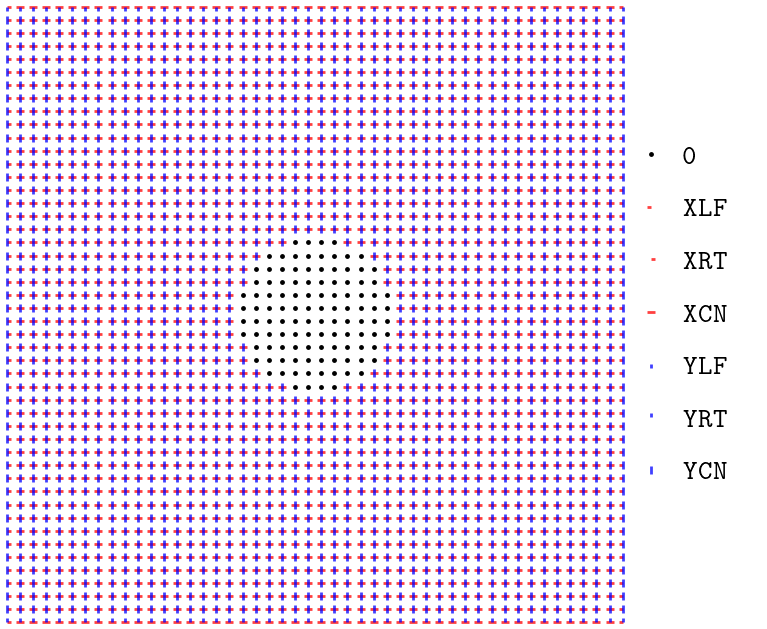
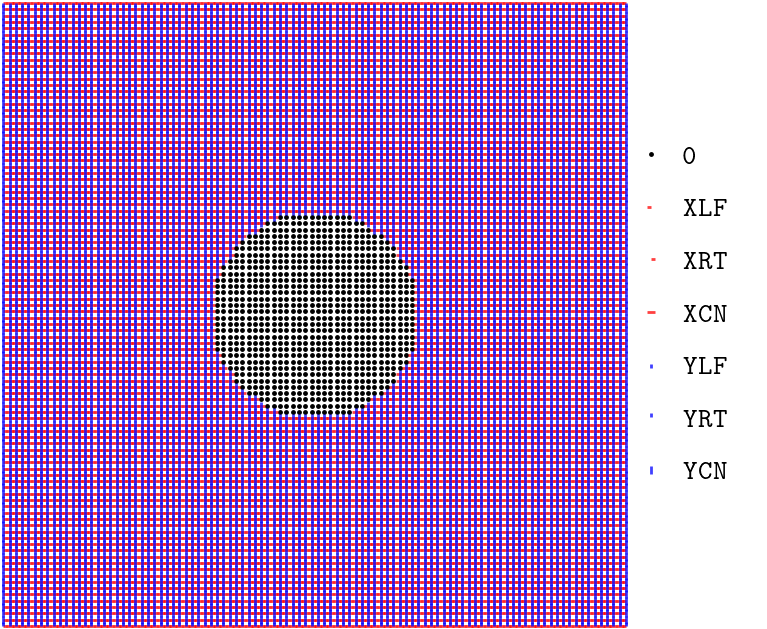
modified:   docs/imgs/poisson_eq_example.png 	modified:   docs/imgs/umap_example.png 	modified:   examples/test_poisson_eq.py 	modified:   src/_default/run_poisson_eq.cxx 	modified:   src/_ltplib/def_poisson_eq.cxx 	modified:   src/common/poisson_eq.hxx

diff --git a/examples/test_poisson_eq.py b/examples/test_poisson_eq.py
@@ -99,9 +99,9 @@ def main(args):
 	ltp.load_backend("default")
 	
 	lx,ly = 2,2
-	nx,ny = 47,47
+	nx,ny = 99,99
 	
-	noise_lvl = 0.1
+	noise_lvl = 0.2
 	
 	shape = (nx+1,ny+1)
 	step  = [l/(k-1) for k,l in zip(shape,[lx,ly])]
@@ -120,7 +120,7 @@ def main(args):
 	_umap[:, :ny] |= ltp.DIFFop("YRT")
 	_umap[:,1:  ] |= ltp.DIFFop("YLF")
 	# set up central body
-	r = 0.25
+	r = 1/3
 	_umap[xs**2 + ys**2 < r**2] = 0
 	_vmap[_umap == 0] = 0
 	
@@ -150,7 +150,7 @@ def main(args):
 		
 		#https://crunchingnumbers.live/2017/07/09/iterative-methods-part-2/
 		
-		for j, w in enumerate(repeat(1.975), 1): 
+		for j, w in enumerate(repeat(1.95), 1): 
 			verr = eq.iter(w)
 			if verr <= 1e-5 or verr != verr:
 				print(f"#{j:06d}: {verr:e}")
